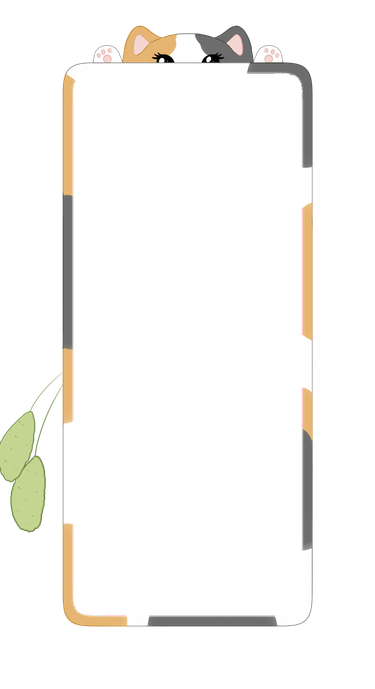
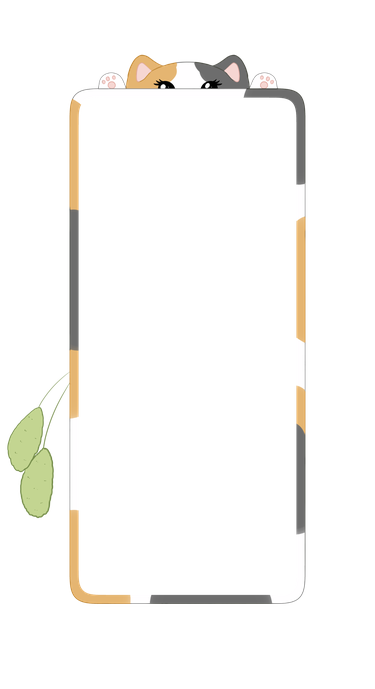
fix(cases): ship Silkie, Fat Cat and Magical Girl exactly as delivered
Fitting their body onto the template rect cropped the canvas, and the
charms these three hang in the margin sit outside that crop: 94 px off the
bottom of Silkie's pom pom, 97 px off Magical Girl's star, and both wing
tips. Nothing is cut now.

The cost is the metal band. All three draw the phone body around 6% narrow
and 9% short inside an otherwise correct 1500x2755 canvas, and the margin
the engine shows is a quarter of the body width, so a smaller body means a
smaller visible canvas. Until they are re-exported with the body at
1000x2255 inset 250 px from every edge, the band reads thin and the shell
edge sits inside the silhouette. Tints for the three are sampled from
their own shell rather than the template one, which falls on transparent
pixels in these files.

Changed region(s): [[0.2347, 0.0305, 0.8507, 0.8839], [0.0, 0.0914, 0.352, 0.9144], [0.3813, 0.8534, 0.7627, 0.9144]]

diff --git a/src/Aetherphone/Core/Theme/ThemeCatalog.cs b/src/Aetherphone/Core/Theme/ThemeCatalog.cs
@@ -41,11 +41,11 @@ internal static class ThemeCatalog
         PhoneCase.Art("UldahGradient", new Vector4(0.334f, 0.222f, 0.115f, 1f)),
         PhoneCase.Art("VampFataleGradient", new Vector4(0.482f, 0.136f, 0.227f, 1f)),
         PhoneCase.Art("WickedThunderGradient", new Vector4(0.662f, 0.571f, 0.718f, 1f)),
-        PhoneCase.Art("Silkie", new Vector4(1.000f, 0.919f, 0.916f, 1f)),
-        PhoneCase.Art("FatCat", new Vector4(0.759f, 0.716f, 0.660f, 1f)),
+        PhoneCase.Art("Silkie", new Vector4(1.000f, 0.919f, 0.915f, 1f)),
+        PhoneCase.Art("FatCat", new Vector4(0.758f, 0.715f, 0.657f, 1f)),
         PhoneCase.Art("CosmicEX", new Vector4(0.141f, 0.141f, 0.172f, 1f)),
         PhoneCase.Art("Caduceus", new Vector4(0.414f, 0.398f, 0.209f, 1f)),
-        PhoneCase.Art("MagicalGirl", new Vector4(0.899f, 0.579f, 0.716f, 1f)),
+        PhoneCase.Art("MagicalGirl", new Vector4(0.899f, 0.580f, 0.718f, 1f)),
     };
 
     public static IReadOnlyList<PhoneCase> Cases { get; } = BuiltInCases;
